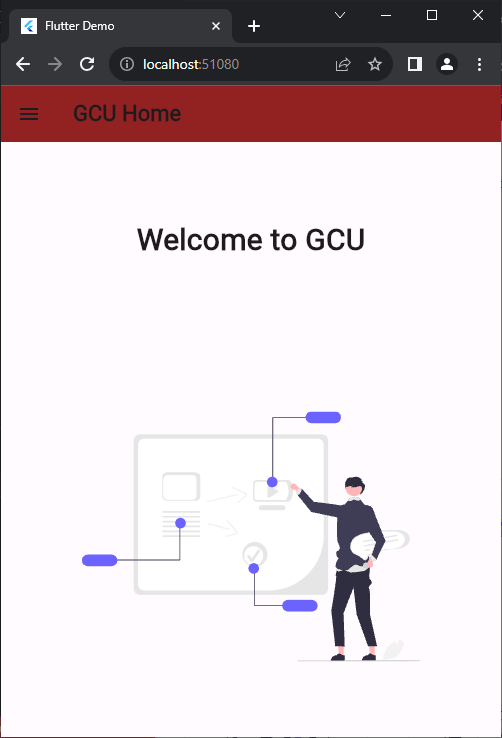
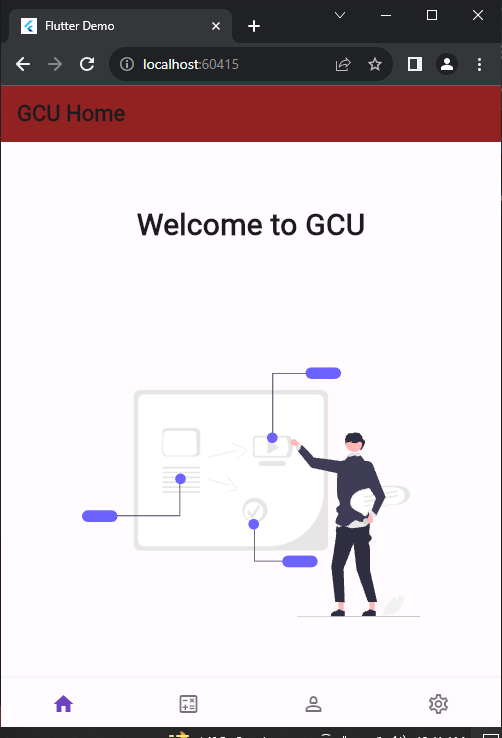
week-02

diff --git a/lib/components/bottom_navigation_bar.dart b/lib/components/bottom_navigation_bar.dart
@@ -1,0 +1,60 @@
+import 'package:flutter/material.dart';
+import 'package:semester_work/screen/home.dart';
+import 'package:semester_work/screen/merit_calculator.dart';
+
+class BottomNavigation extends StatefulWidget {
+  const BottomNavigation({super.key});
+
+  @override
+  State<BottomNavigation> createState() => _BottomNavigationState();
+}
+
+class _BottomNavigationState extends State<BottomNavigation> {
+  int _selectedIndex = 0;
+
+  @override
+  Widget build(BuildContext context) {
+    return BottomNavigationBar(
+        type: BottomNavigationBarType.fixed,
+        currentIndex: _selectedIndex,
+        showSelectedLabels: false,
+        showUnselectedLabels: false,
+        onTap: (index) {
+          setState(() {
+            _selectedIndex = index;
+
+            index == 1
+                ? {
+                    Navigator.of(context).pop(),
+                    Navigator.of(context).push(MaterialPageRoute(
+                        builder: (context) => const MeritCalculator()))
+                  }
+                : {
+                    Navigator.of(context).pop(),
+                    Navigator.of(context).push(
+                        MaterialPageRoute(builder: (context) => const Home()))
+                  };
+          });
+        },
+        items: [
+          BottomNavigationBarItem(
+              icon:
+                  Icon(_selectedIndex == 0 ? Icons.home : Icons.home_outlined),
+              label: ''),
+          BottomNavigationBarItem(
+              icon: Icon(_selectedIndex == 1
+                  ? Icons.calculate
+                  : Icons.calculate_outlined),
+              label: ''),
+          BottomNavigationBarItem(
+              icon: Icon(
+                  _selectedIndex == 2 ? Icons.person : Icons.person_2_outlined),
+              label: ''),
+          BottomNavigationBarItem(
+              icon: Icon(_selectedIndex == 3
+                  ? Icons.settings
+                  : Icons.settings_outlined),
+              label: ''),
+        ]);
+  }
+}

diff --git a/lib/screen/home.dart b/lib/screen/home.dart
@@ -1,5 +1,5 @@
 import 'package:flutter/material.dart';
-import 'package:semester_work/components/drawer.dart';
+import 'package:semester_work/components/bottom_navigation_bar.dart';
 import 'package:flutter_svg/flutter_svg.dart';
 
 class Home extends StatelessWidget {
@@ -15,7 +15,8 @@ class Home extends StatelessWidget {
           style: TextStyle(fontWeight: FontWeight.bold),
         ),
       ),
-      drawer: const DrawerMenu(),
+      // drawer: const DrawerMenu(),
+      bottomNavigationBar: const BottomNavigation(),
       body: Expanded(
         child: (Column(
           mainAxisAlignment: MainAxisAlignment.spaceAround,

diff --git a/lib/screen/merit_calculator.dart b/lib/screen/merit_calculator.dart
@@ -1,4 +1,5 @@
 import 'package:flutter/material.dart';
+import 'package:semester_work/components/bottom_navigation_bar.dart';
 
 class MeritCalculator extends StatelessWidget {
   const MeritCalculator({super.key});
@@ -10,6 +11,7 @@ class MeritCalculator extends StatelessWidget {
         backgroundColor: const Color.fromRGBO(146, 33, 33, 1),
         title: const Text("Merit Calculator"),
       ),
+      bottomNavigationBar: const BottomNavigation(),
       body: const Column(
           crossAxisAlignment: CrossAxisAlignment.center,
           children: [Text("Merit Screen")]),
